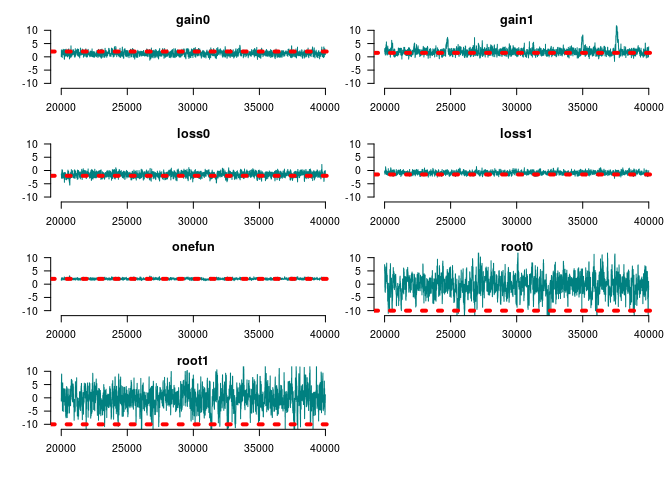
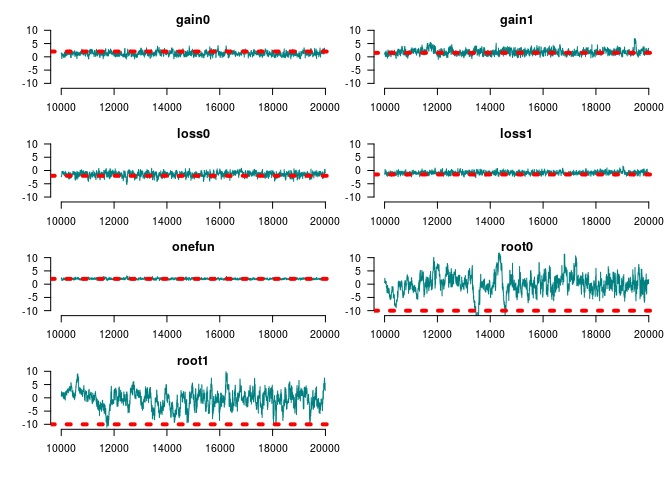
Updating readme

diff --git a/README.md b/README.md
@@ -7,15 +7,33 @@ Epidemiology](https://raw.githubusercontent.com/USCbiostats/badges/master/tommy-
 # geese: *GE*ne-functional *E*volution using *S*uffici*E*ncy <img src="man/figures/logo.svg" align="right" width="180px"/>
 
 <!-- badges: start -->
+
 <!-- badges: end -->
 
-The goal of geese is to …
+This R package taps into statistical theory mostly developed in the
+social networks realm. Using Exponential-Family Random Graph Models
+(ERGMs), `geese` provides an statistical framework for building Gene
+Functional Evolution Models using Sufficiency. For example, users can
+directly hypothesize whether Neofunctionalization or
+Subfunctionalization events were taking place in a phylogeny, without
+having to estimate the full transition Markov Matrix that is usually
+used.
+
+GEESE is computationally efficient, with C++ under-the-hood, allowing
+the analyses of either single trees (a GEESE) or multiple trees
+simulatenously (pooled model), in a Flock.
+
+This is work in progress and based on the theoretical work developed
+duing [George G. Vega Yon](https://ggv.cl)’s doctoral thesis.
 
 ## Installation
 
 <!-- You can install the released version of geese from [CRAN](https://CRAN.R-project.org) with: -->
+
 <!-- ``` r -->
+
 <!-- install.packages("geese") -->
+
 <!-- ``` -->
 
 The development version from [GitHub](https://github.com/) with:
@@ -55,6 +73,8 @@ term_gains(amodel, 0:1)
 term_loss(amodel, 0:1)
 term_maxfuns(amodel, 1, 1)
 init_model(amodel)
+#> Initializing nodes in Geese (this could take a while)...
+#> ||||||||||||||||||||||||||||||||||||||||||||||||||||||||||||||||||||||||| done.
 
 # Testing
 params <- c(
@@ -70,7 +90,7 @@ params <- c(
 names(params) <- c("gain0", "gain1", "loss0", "loss1", "onefun", "root0", "root1")
 
 likelihood(amodel, params*0) # Equals 1 b/c all missings
-#> [1] 0
+#> [1] 1
 
 # Simulating data
 fake1 <- sim_geese(p = amodel, par = params, seed = 1110)
@@ -113,6 +133,28 @@ term_maxfuns(amodel, 1, 1)
 
 # We need to initialize to do all the accounting
 init_model(amodel)
+#> Initializing nodes in Geese (this could take a while)...
+#> ||||||||||||||||||||||||||||||||||||||||||||||||||||||||||||||||||||||||| done.
+
+print(amodel)
+#> GEESE
+#> INFO ABOUT PHYLOGENY
+#> # of functions           : 2
+#> # of nodes [int; leaf]   : [199; 100]
+#> # of ann. [zeros; ones]  : [87; 113]
+#> # of events [dupl; spec] : [99; 0]
+#> Largest polytomy         : 2
+#> 
+#> INFO ABOUT THE SUPPORT
+#> Num. of Arrays     : 396
+#> Support size       : 4
+#> Support size range : [0, 14]
+#> Model terms (5)   :
+#>  - Gains 0 at duplication
+#>  - Gains 1 at duplication
+#>  - Loss 0 at duplication
+#>  - Loss 1 at duplication
+#>  - Genes with [1, 1] funs at duplication
 
 # Finding MLE
 geese_mle(amodel, hessian = TRUE)
@@ -139,16 +181,24 @@ geese_mle(amodel, hessian = TRUE)
 #> [3,]  9.719647e-02 -2.661554e-01 -1.562040e+00  1.126001e-01 -1.189657e+00
 #> [4,] -5.826438e-01  2.058254e+00  1.126001e-01 -5.959471e+00 -3.427126e+00
 #> [5,]  1.230857e+00  2.388066e+00 -1.189657e+00 -3.427126e+00 -2.441145e+01
-#> [6,] -8.064660e-07  1.930012e-06 -1.187495e-06  3.366196e-06 -4.565237e-07
-#> [7,]  6.354028e-06 -8.340448e-04  9.558576e-06 -6.562351e-04  1.888232e-04
+#> [6,] -8.064660e-07  1.930012e-06 -1.188383e-06  3.367084e-06 -4.565237e-07
+#> [7,]  6.355805e-06 -8.340431e-04  9.558576e-06 -6.562342e-04  1.888223e-04
 #>               [,6]          [,7]
-#> [1,] -8.064660e-07  6.354028e-06
-#> [2,]  1.930012e-06 -8.340448e-04
-#> [3,] -1.187495e-06  9.558576e-06
-#> [4,]  3.366196e-06 -6.562351e-04
-#> [5,] -4.565237e-07  1.888232e-04
-#> [6,]  4.440892e-08  6.750156e-08
+#> [1,] -8.064660e-07  6.355805e-06
+#> [2,]  1.930012e-06 -8.340431e-04
+#> [3,] -1.188383e-06  9.558576e-06
+#> [4,]  3.367084e-06 -6.562342e-04
+#> [5,] -4.565237e-07  1.888223e-04
+#> [6,]  4.263256e-08  6.750156e-08
 #> [7,]  6.750156e-08 -2.657963e-05
+
+transition_prob(
+  amodel,
+  params = c(-1, -1, -2, -2, -.5), 
+  duplication = TRUE, state = c(FALSE, FALSE),
+  array = matrix(c(1, 0, 0, 1)*0, ncol=2)
+)
+#> [1] 0.2315802
 ```
 
 ## Model fitting MCMC
@@ -157,10 +207,14 @@ geese_mle(amodel, hessian = TRUE)
 set.seed(122)
 ans_mcmc <- geese_mcmc(
   amodel,
-  nsteps  = 40000,
+  nsteps  = 20000,
   kernel  = fmcmc::kernel_ram(warmup = 2000), 
   prior   = function(p) dlogis(p, scale = 2, log = TRUE)
   )
+#> 
+#> |0%                 |25%                |50%                |75%           100%|
+#> --------------------------------------------------------------------------------
+#> ////////////////////////////////////////////////////////////////////////////////
 ```
 
 We can take a look at the results like this:
@@ -168,33 +222,73 @@ We can take a look at the results like this:
 <img src="man/figures/README-mcmc-analysis-1.png" width="100%" />
 
     #> 
-    #> Iterations = 15000:40000
+    #> Iterations = 15000:20000
     #> Thinning interval = 1 
     #> Number of chains = 1 
-    #> Sample size per chain = 25001 
+    #> Sample size per chain = 5001 
     #> 
     #> 1. Empirical mean and standard deviation for each variable,
     #>    plus standard error of the mean:
     #> 
-    #>          Mean     SD Naive SE Time-series SE
-    #> par1  1.26120 0.7629 0.004825       0.023220
-    #> par2  1.93817 1.2494 0.007902       0.072333
-    #> par3 -1.51192 0.8443 0.005340       0.026278
-    #> par4 -0.86702 0.5525 0.003494       0.017003
-    #> par5  1.99785 0.2394 0.001514       0.006938
-    #> par6 -0.19538 3.6550 0.023116       0.175974
-    #> par7 -0.02748 3.6706 0.023215       0.161282
+    #>                                          Mean     SD Naive SE Time-series SE
+    #> Gains 0 at duplication                 1.2723 0.7586 0.010727        0.05294
+    #> Gains 1 at duplication                 1.8373 0.9848 0.013926        0.07326
+    #> Loss 0 at duplication                 -1.4241 0.8064 0.011403        0.05438
+    #> Loss 1 at duplication                 -0.8163 0.5572 0.007879        0.03446
+    #> Genes with [1, 1] funs at duplication  1.9937 0.2215 0.003132        0.01277
+    #> Root 1                                 0.3445 2.9532 0.041761        0.31086
+    #> Root 2                                -0.3347 3.0158 0.042645        0.33184
     #> 
     #> 2. Quantiles for each variable:
     #> 
-    #>         2.5%     25%      50%     75%   97.5%
-    #> par1 -0.1486  0.7323  1.23488  1.7457 2.83010
-    #> par2  0.1582  1.1853  1.75376  2.4721 4.84487
-    #> par3 -3.2207 -2.0756 -1.47760 -0.9378 0.04801
-    #> par4 -1.8700 -1.2413 -0.89249 -0.5323 0.30781
-    #> par5  1.5569  1.8305  1.98664  2.1502 2.51727
-    #> par6 -7.7258 -2.4187 -0.12163  2.0795 6.98715
-    #> par7 -7.8283 -2.2335 -0.01834  2.2817 7.28420
+    #>                                          2.5%     25%     50%     75%   97.5%
+    #> Gains 0 at duplication                -0.1466  0.7817  1.2424  1.7714 2.73773
+    #> Gains 1 at duplication                 0.2052  1.1583  1.7674  2.4307 3.76635
+    #> Loss 0 at duplication                 -3.0947 -1.9784 -1.4155 -0.8769 0.06948
+    #> Loss 1 at duplication                 -1.8223 -1.1907 -0.8697 -0.4792 0.39775
+    #> Genes with [1, 1] funs at duplication  1.6037  1.8319  1.9926  2.1413 2.42520
+    #> Root 1                                -4.9226 -1.7294  0.2676  2.0521 6.89956
+    #> Root 2                                -6.3861 -2.1793 -0.2905  1.6815 5.45537
+
+``` r
+# Obtaining estimates
+par_estimates <- colMeans(window(ans_mcmc, start = 20000))
+ans_pred      <- predict_geese(amodel, par_estimates, leave_one_out = TRUE)
+ans_pred      <- do.call(rbind, ans_pred)
+
+# Preparing annotations
+ann_obs <- do.call(rbind, fake1)
+
+# Mean Absolute Error
+hist(abs(ans_pred - ann_obs))
+```
+
+<img src="man/figures/README-prediction-1.png" width="100%" />
+
+``` r
+
+# AUC
+(ans <- aphylo::prediction_score(
+  cbind(as.vector(ans_pred)),
+  cbind(as.vector(ann_obs))
+  ))
+#> Prediction score (H0: Observed = Random)
+#> 
+#>  N obs.      : 398
+#>  alpha(0, 1) : 0.42, 0.58
+#>  Observed    : 0.81 ***
+#>  Random      : 0.51 
+#>  P(<t)       : 0.0000
+#> --------------------------------------------------------------------------------
+#> Values scaled to range between 0 and 1, 1 being best.
+#> 
+#> Significance levels: *** p < .01, ** p < .05, * p < .10
+#> AUC 0.93.
+#> MAE 0.19.
+plot(ans$auc)
+```
+
+<img src="man/figures/README-prediction-2.png" width="100%" />
 
 ## Using a flock
 
@@ -228,6 +322,30 @@ term_maxfuns(flock, 1, 1)
 
 # We need to initialize to do all the accountintg
 init_model(flock)
+#> Initializing nodes in Geese (this could take a while)...
+#> ||||||||||||||||||||||||||||||||||||||||||||||||||||||||||||||||||||||||| done.
+#> Initializing nodes in Geese (this could take a while)...
+#> ||||||||||||||||||||||||||||||||||||||||||||||||||||||||||||||||||||||||| done.
+
+print(flock)
+#> FLOCK (GROUP OF GEESE)
+#> INFO ABOUT THE PHYLOGENIES
+#> # of phylogenies         : 2
+#> # of functions           : 2
+#> # of ann. [zeros; ones]  : [166; 234]
+#> # of events [dupl; spec] : [198; 0]
+#> Largest polytomy         : 2
+#> 
+#> INFO ABOUT THE SUPPORT
+#> Num. of Arrays     : 792
+#> Support size       : 4
+#> Support size range : [0, 14]
+#> Model terms (5)   :
+#>  - Gains 0 at duplication
+#>  - Gains 1 at duplication
+#>  - Loss 0 at duplication
+#>  - Loss 1 at duplication
+#>  - Genes with [1, 1] funs at duplication
 ```
 
 We can use the same program to fit the MCMC
@@ -299,7 +417,7 @@ summary(window(ans_mcmc2, start = 10000))
 In this example, we use the function `rule_limit_changes()` to apply a
 constraint to the support of the model. This takes the 6th term (5th
 since the index is in C++), and restricts the support to states where
-there are between \[0, 2\] changes, at most.
+there are between \([0, 2]\) changes, at most.
 
 This should be useful when dealing with multiple functions or
 [pylotomies](https://en.wikipedia.org/wiki/Polytomy).
@@ -325,10 +443,12 @@ rule_limit_changes(amodel_limited, 5, 0, 2)
 
 # We need to initialize to do all the accounting
 init_model(amodel_limited)
+#> Initializing nodes in Geese (this could take a while)...
+#> ||||||||||||||||||||||||||||||||||||||||||||||||||||||||||||||||||||||||| done.
 
 # Is limiting the support any useful?
 support_size(amodel_limited)
-#> [1] 9
+#> [1] 38
 ```
 
 Since we added the constraint based on the term
